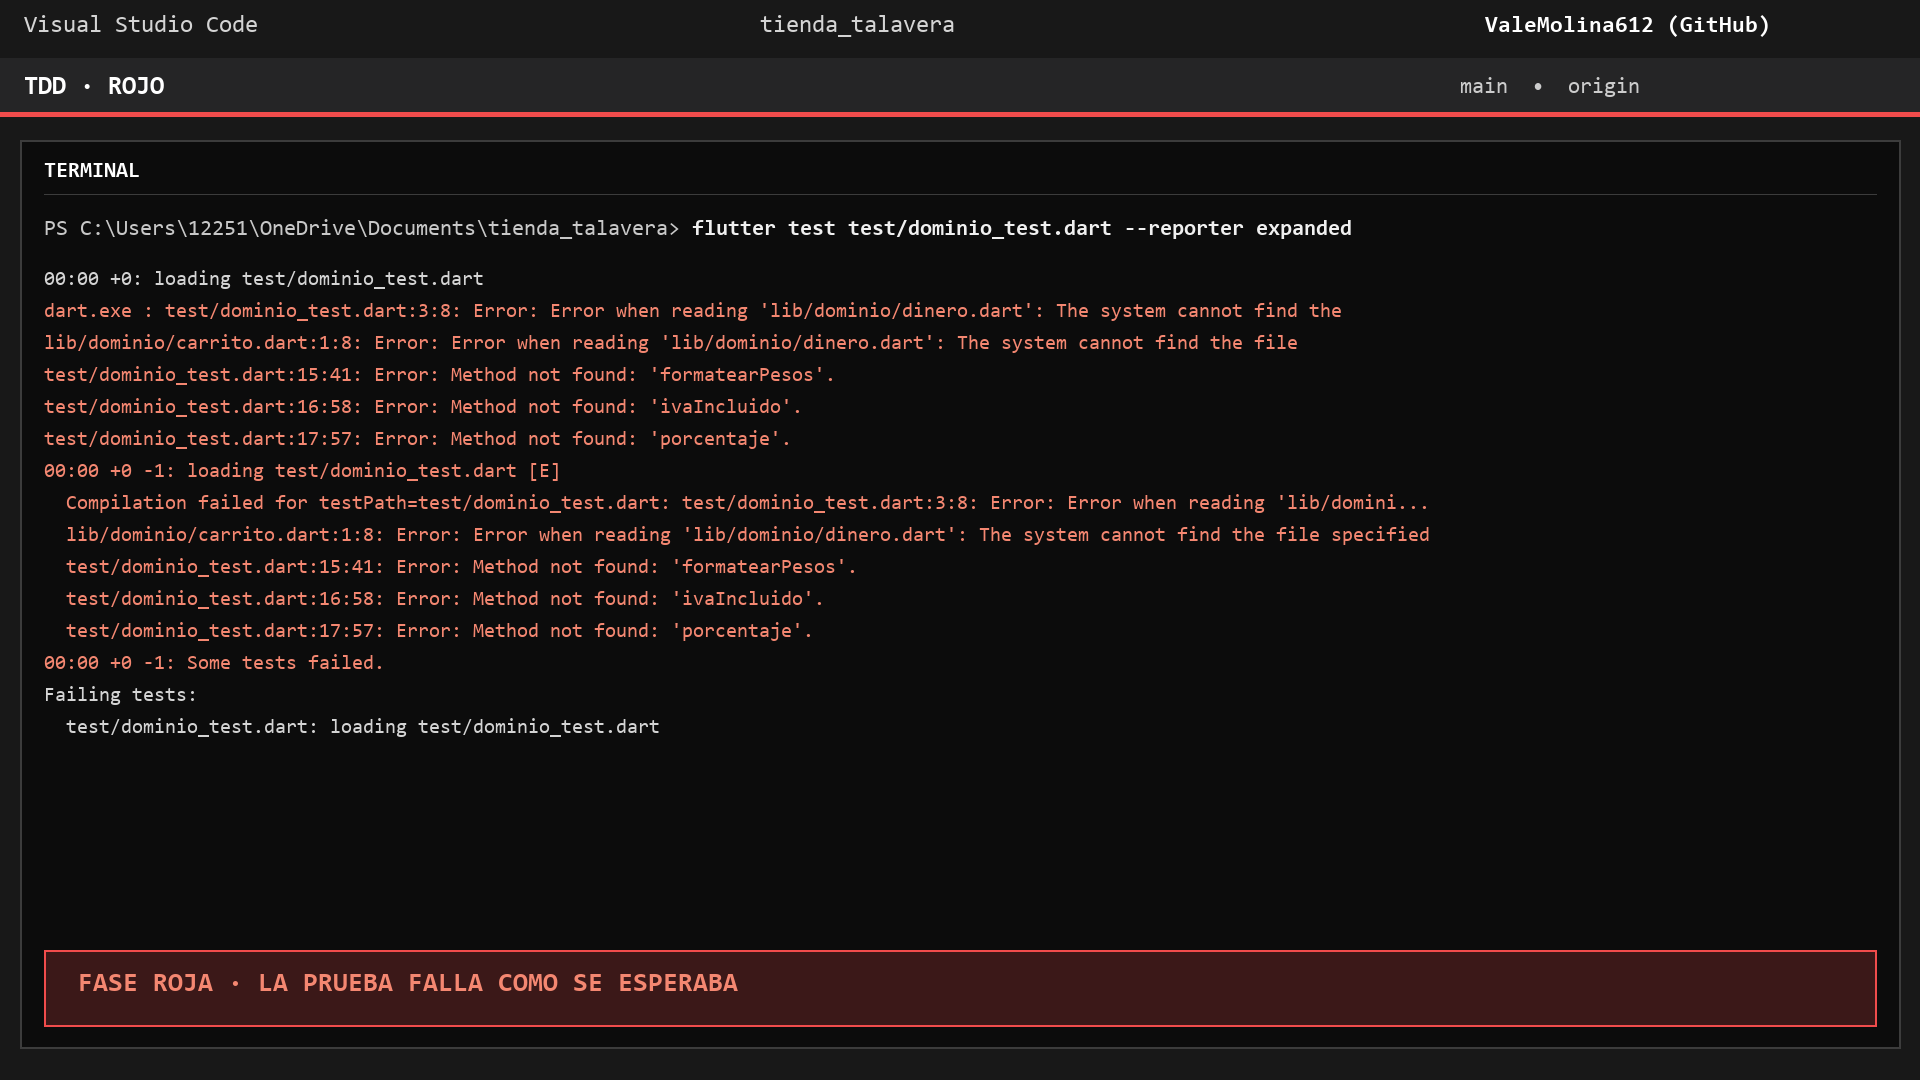
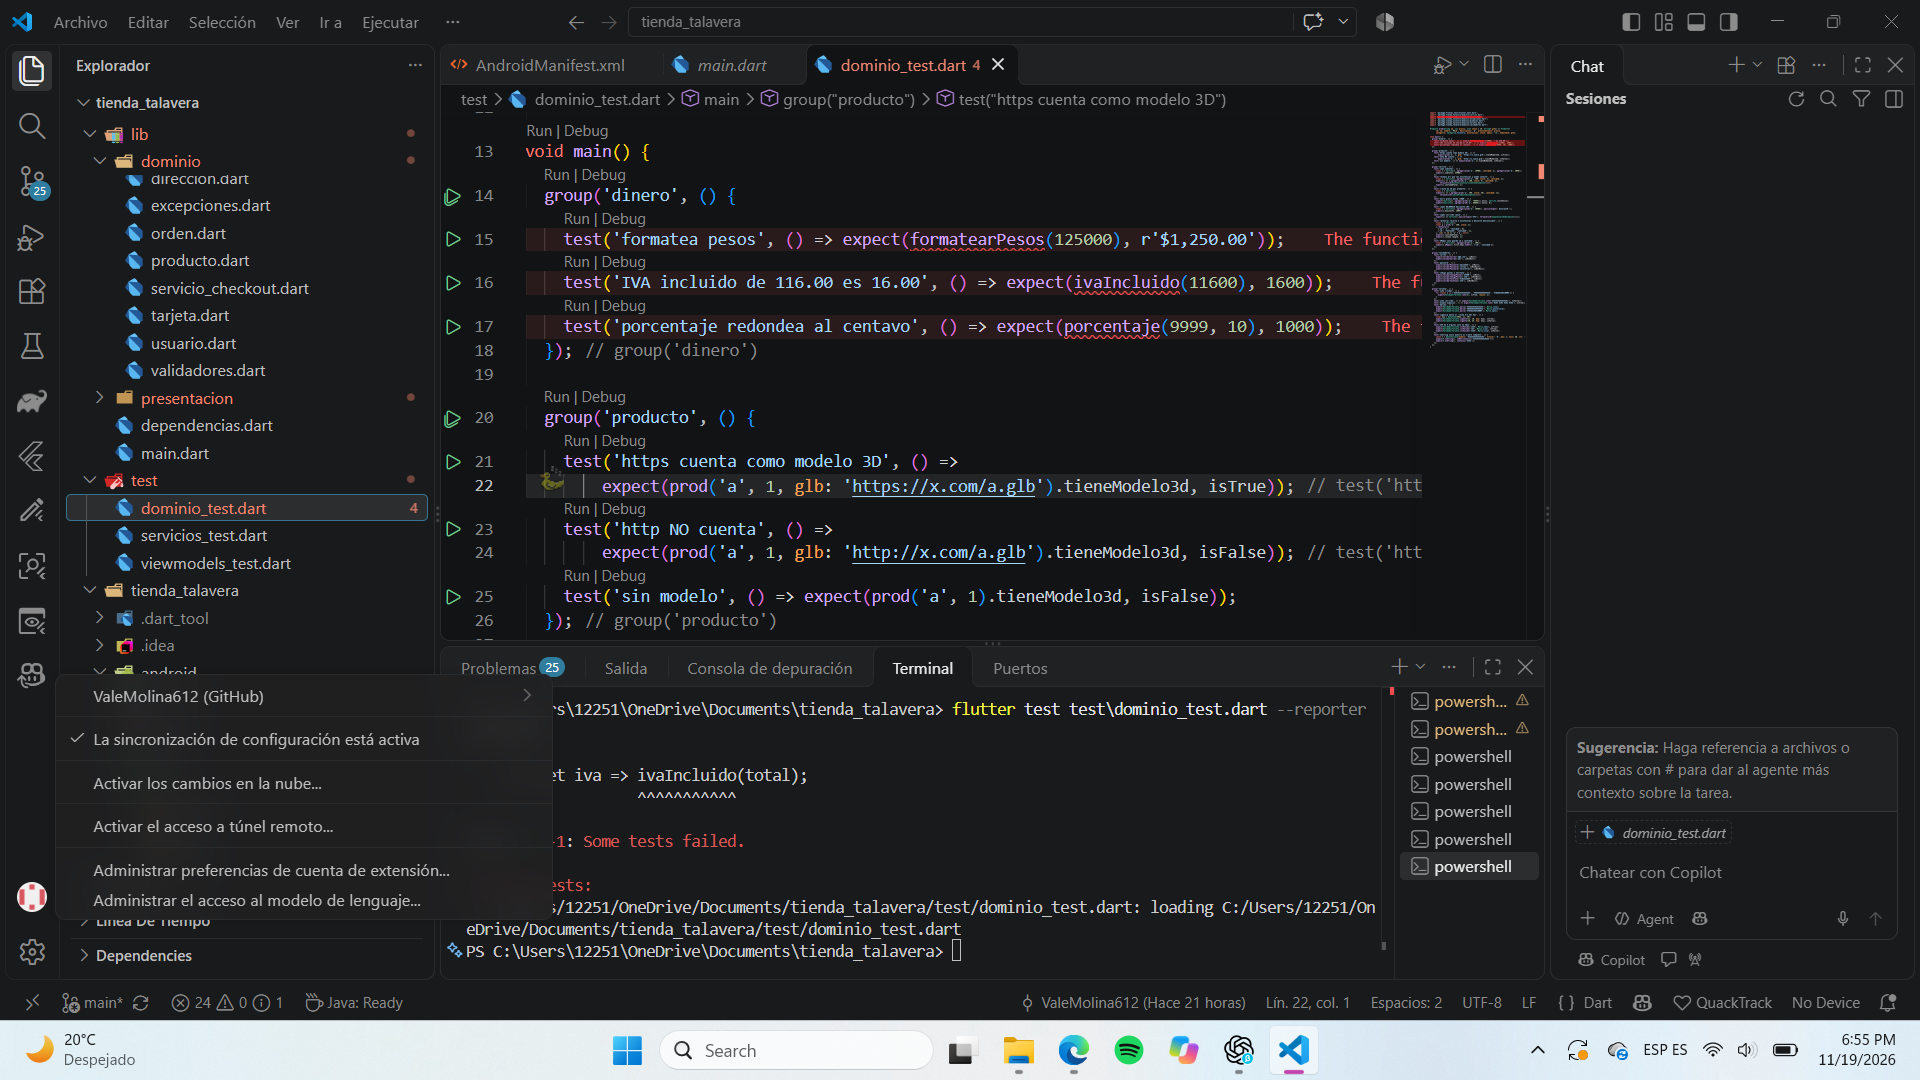
Actualizar evidencias TDD reales de Visual Studio Code

diff --git a/README.md b/README.md
@@ -77,17 +77,17 @@ La compra aprobada genera una orden, muestra la referencia del pago y descuenta 
 
 ## Evidencias del ciclo TDD en la terminal
 
-Las siguientes capturas muestran ejecuciones reales del proyecto. En la parte superior aparece la cuenta de GitHub **ValeMolina612** y la rama `main` vinculada con `origin`.
+Las siguientes capturas fueron tomadas directamente en Visual Studio Code con el proyecto `tienda_talavera` abierto. En ambas se observan el código de las pruebas, la terminal integrada y la cuenta **ValeMolina612 (GitHub)**.
 
 ### Fase roja
 
-Para demostrar la fase roja se retiró temporalmente `lib/dominio/dinero.dart` en una copia de trabajo. La suite no puede compilar y las pruebas fallan porque todavía no existen `formatearPesos`, `ivaIncluido` y `porcentaje`. El archivo original del repositorio permaneció intacto.
+Siguiendo el manual, primero se comprueba que las pruebas fallen antes de disponer de la implementación. Para obtener esta evidencia se retiró temporalmente `lib/dominio/dinero.dart`, se ejecutó `flutter test test\dominio_test.dart --reporter expanded` y la terminal mostró **Some tests failed**. Inmediatamente después se restauró el archivo sin conservar cambios en el código.
 
 ![Fase roja TDD en la terminal](docs/capturas/09-fase-roja-terminal.png)
 
 ### Fase verde
 
-Después de restaurar la implementación se ejecutaron las tres suites del proyecto. El resultado fue **60 pruebas aprobadas**.
+Después de restaurar la implementación se ejecutaron `dominio_test.dart`, `servicios_test.dart` y `viewmodels_test.dart`. La terminal mostró **+60: All tests passed!**.
 
 ![Fase verde TDD con 60 pruebas aprobadas](docs/capturas/10-fase-verde-terminal.png)
 
